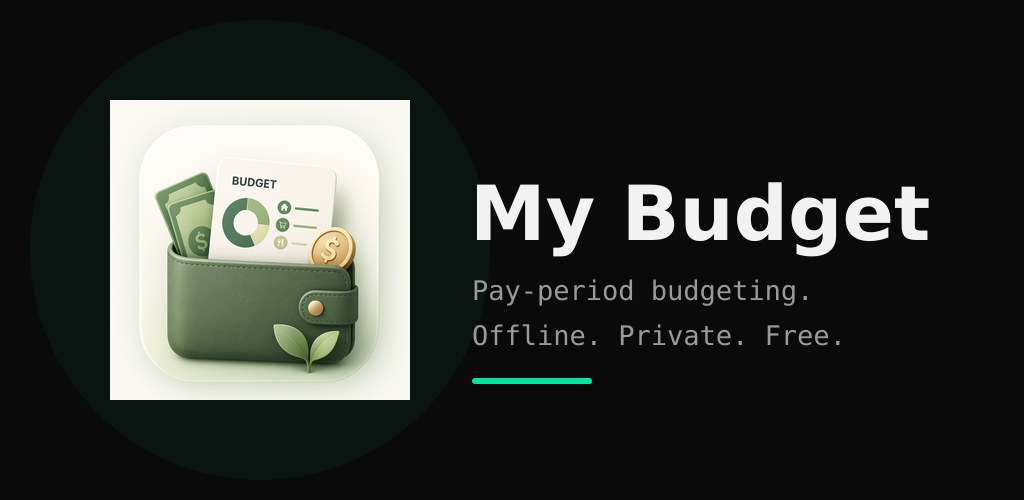
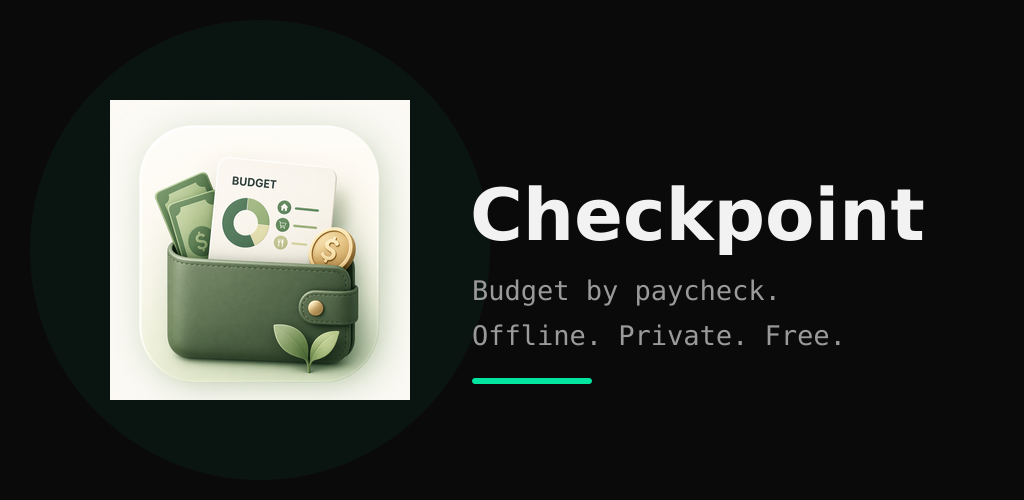
Rename app to Checkpoint (v1.17.1)
New name everywhere the old one appeared: Android launcher label and
activity title, Capacitor appName, PWA manifest (name + short_name),
page title, onboarding welcome, Settings app card, privacy policy, and
the Play listing (title "Checkpoint: Paycheck Budget", 27/30 chars).
Feature graphic regenerated with the new wordmark. App id stays
com.danielsk.mybudget. Bumps to v1.17.1.

https://claude.ai/code/session_01DPtFBcX1y4WTwfKG7huA36

Changed region(s): [[0.4375, 0.36, 0.9062, 0.51], [0.4688, 0.57, 0.7812, 0.63]]

diff --git a/index.html b/index.html
@@ -6,9 +6,9 @@
 <meta name="viewport" content="width=device-width, initial-scale=1.0, maximum-scale=1.0, user-scalable=no">
 <meta name="apple-mobile-web-app-capable" content="yes">
 <meta name="apple-mobile-web-app-status-bar-style" content="black-translucent">
-<meta name="apple-mobile-web-app-title" content="Budget">
+<meta name="apple-mobile-web-app-title" content="Checkpoint">
 <meta name="theme-color" content="#0a0a0a">
-<title>Budget</title>
+<title>Checkpoint</title>
 <link rel="preconnect" href="https://fonts.googleapis.com">
 <link href="https://fonts.googleapis.com/css2?family=DM+Mono:wght@400;500&family=DM+Sans:wght@300;400;500&display=swap" rel="stylesheet">
 <style>
@@ -376,7 +376,7 @@ details[open] > summary .summary-chevron {
 <div id="toast"></div>
 <script>
 // ── VERSION ───────────────────────────────────────────────────────────────
-const APP_VERSION = '1.17.0';
+const APP_VERSION = '1.17.1';
 // Tip-jar link (Ko-fi / Buy Me a Coffee / GitHub Sponsors). Shown in Settings
 // on the web/PWA only — never in the native Play Store build, where external
 // payment links violate Google Play's payments policy. Leave '' to hide.
@@ -837,7 +837,7 @@ function renderOnboarding() {
     <div style="padding-top:7vh">${dots}
       <div style="text-align:center;margin-bottom:28px">
         <div style="font-size:40px;margin-bottom:12px">👋</div>
-        <h1 style="font-size:26px;font-weight:500">Welcome to My Budget</h1>
+        <h1 style="font-size:26px;font-weight:500">Welcome to Checkpoint</h1>
         <p style="color:var(--muted);font-size:14px;margin-top:8px;line-height:1.5">Budgeting built around your paychecks —<br>not calendar months.</p>
       </div>
       <div class="card">
@@ -1872,7 +1872,7 @@ function renderSettings() {
       <div class="card-label">App</div>
       <div style="display:flex;align-items:center;justify-content:space-between;margin-bottom:14px">
         <div>
-          <div style="font-size:14px;font-weight:500">Budget</div>
+          <div style="font-size:14px;font-weight:500">Checkpoint</div>
           <div style="font-size:11px;color:var(--muted);font-family:var(--font-mono);margin-top:2px">v${APP_VERSION} · local storage</div>
         </div>
         <div id="update-status" style="font-size:11px;color:var(--muted);font-family:var(--font-mono)"></div>

diff --git a/privacy.html b/privacy.html
@@ -3,7 +3,7 @@
 <head>
 <meta charset="UTF-8">
 <meta name="viewport" content="width=device-width, initial-scale=1.0">
-<title>Privacy Policy — My Budget</title>
+<title>Privacy Policy — Checkpoint</title>
 <style>
   :root{--bg:#0a0a0a;--surface:#141414;--border:#242424;--text:#f2f2f2;--muted:#9a9a9a;--green:#00e5a0}
   *{box-sizing:border-box;margin:0;padding:0}
@@ -21,10 +21,10 @@
 <body>
 <main>
   <h1>Privacy Policy</h1>
-  <div class="updated">My Budget · Last updated July 2026</div>
+  <div class="updated">Checkpoint · Last updated July 2026</div>
 
   <div class="card">
-    <p><strong>The short version:</strong> My Budget stores all of your data on your own device. Nothing is collected, transmitted, sold, or shared. There are no accounts, no analytics, no ads, and no third-party services.</p>
+    <p><strong>The short version:</strong> Checkpoint stores all of your data on your own device. Nothing is collected, transmitted, sold, or shared. There are no accounts, no analytics, no ads, and no third-party services.</p>
   </div>
 
   <h2>Data storage</h2>

diff --git a/PLAY_LISTING.md b/PLAY_LISTING.md
@@ -1,14 +1,14 @@
 # Google Play Store Listing — copy-paste content
 
 ## App name (30 chars max)
-My Budget — Pay-Period Budget
+Checkpoint: Paycheck Budget
 
 ## Short description (80 chars max)
 Budget by paycheck, not by month. Offline, private, free — no account needed.
 
 ## Full description (4000 chars max)
 
-Most budget apps assume you get paid once a month. My Budget is built around how you're actually paid — weekly, bi-weekly, or monthly — so every budget, rollover, and savings number lines up with your real paychecks.
+Most budget apps assume you get paid once a month. Checkpoint is built around how you're actually paid — weekly, bi-weekly, or monthly — so every budget, rollover, and savings number lines up with your real paychecks.
 
 **Budget by pay period**
 Set your pay frequency and payday once. Every category budget is allocated per paycheck, and a new period starts automatically each payday.
@@ -39,7 +39,7 @@ Every period is archived with its transactions and notes. Compare this period to
 • Export/backup anytime (JSON or CSV)
 • Free, forever
 
-Whether you're paid every Friday or twice a month, My Budget keeps your money organized around your actual life.
+Whether you're paid every Friday or twice a month, Checkpoint keeps your money organized around your actual life.
 
 ## Category
 Finance